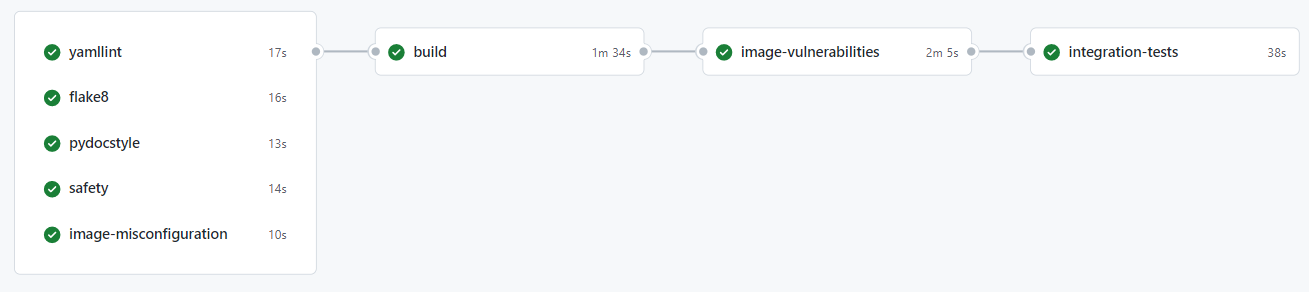
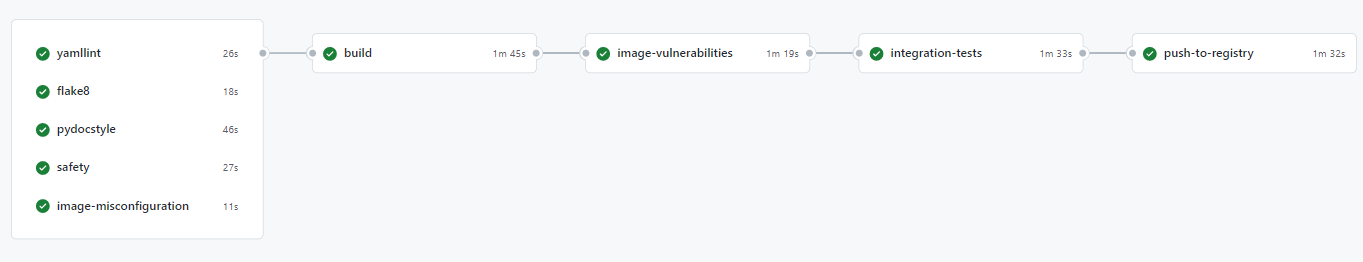
Update README.md (#6)
* Updated doc

* Updated doc

* Added architecture diagram

* Adjusted image size

* Added build badge

* updated badge

* rm empty lines

diff --git a/README.md b/README.md
@@ -1,8 +1,10 @@
-This repo is a template for dockerized flask applications(REST API). You will find the following implementation:
+# financial-data-api &middot; ![ci](https://github.com/teddy-ambona/financial-data-api/actions/workflows/ci.yml/badge.svg)
+
+This repo is a template for dockerized flask applications(REST API). This simplified API exposes GET endpoints that allow you to pull stock prices and trading indicators. You will find the following implementation:
 
 - Github Actions CICD
 - Docker PostgreSQL DB setup for local testing
-- Docker image build pattern
+- Docker image build and distribution pattern
 - Services configuration with Docker Compose
 - Makefile template
 - Flask blueprints
@@ -10,8 +12,9 @@ This repo is a template for dockerized flask applications(REST API). You will fi
 - Flask-SQLAlchemy implementation
 - Dependency injection
 
+<img src="./docs/img/architecture.png" width="700"/>
 
-# Prerequisites
+## Prerequisites
 
 - [Docker](https://docs.docker.com/get-docker/)
 - [Docker Compose CLI plugin](https://docs.docker.com/compose/install/compose-plugin/)
@@ -19,23 +22,23 @@ This repo is a template for dockerized flask applications(REST API). You will fi
 
 > The API doesn't require python installed on your machine.
 
-# Quickstart
+## Quickstart
 
 Run the following commands to build the Docker image and run the app and db services:
 
-```
+```bash
 make build up
 ```
 
 Verify the API is running:
 
-```
+```bash
 curl -I http://127.0.0.1:5000/_healthcheck
 ```
 
-# Project file structure
+## Project file structure
 
-```
+```text
 ├── .github
 │   ├── workflow
 │   │   └── cicd.yaml
@@ -77,7 +80,7 @@ curl -I http://127.0.0.1:5000/_healthcheck
 ├── requirements.txt
 ```
 
-# CICD overview
+## CICD overview
 
 <img src="./docs/img/CICD.png" width="700"/>
 <br></br>
@@ -87,23 +90,57 @@ curl -I http://127.0.0.1:5000/_healthcheck
 - **pydocstyle:** Checks compliance with Python docstring conventions
 - **safety:** python packages vulnerabilities scanner
 - **image-misconfiguration:** Detect configuration issues in Dockerfile(Trivy)
-- **build:** Build Docker image
+- **build:** Build Docker image and push it to the pipeline artifacts
 - **image-vulnerabilities:** Image vulnerablities scanner(Trivy)
 - **integration-tests:** Series of tests which call the API
+- **push-to-registry:** Push the Docker image to Docker Hub
 
-# Running the CICD pipeline locally
+## Running the CICD pipeline locally
 
 Install [act](https://github.com/nektos/act) to run the jobs on your local machine.
 
 Example:
+
+```bash
+act --secret-file secrets.txt --artifact-server-path /tmp/artifacts  # Run the full CICD pipeline
+act -j pydocstyle --secret-file secrets.txt --artifact-server-path /tmp/artifacts # Run specific job
 ```
-act  # Run the full CICD pipeline
-act -j pydocstyle  # Run specific job
+
+In `secrets.txt`:
+
+```bash
+GITHUB_TOKEN=<YOUR_PAT_TOKEN>
+DOCKERHUB_USERNAME=<YOUR_DOCKERHUB_USERNAME>
+DOCKERHUB_TOKEN=<YOUR_DOCKERHUB_TOKEN>
 ```
-Optionally you could also use the Makefile directly
+
+`--artifact-server-path` has to be specified as the workflow is using `actions/upload-artifact` and `actions/download-artifact`([cf issue](https://github.com/nektos/act/issues/329#issuecomment-1187246629))
+
+Optionally you could also run pipeline jobs using the Makefile directly
 
 Example:
-```
+
+```bash
 make pydocstyle
 make setup-db integration-tests
 ```
+
+## Docker image build pattern
+
+The requirements are:
+
+- A dev image should be pushed to [Docker Hub](https://hub.docker.com/r/tambona29/financial-data-api/tags) everytime a `git push` is made. That allows end-to-end testing in dev environment. I chose Docker Hub over AWS as Docker Hub is still the best choice for distributing software publicly.
+
+- Leverage pipeline artifacts to avoid rebuilding the image from scratch across jobs. Also pass image tag variables between jobs/steps using the output functionality to keep the code DRY.
+
+- The image tag should follow [SemVer specifications](https://semver.org/) which is `MAJOR.MINOR.PATCH-<BRANCH NAME>.dev.<COMMIT SHA>` for dev versions and `MAJOR.MINOR.PATCH` for production use.
+
+### SemVer2
+
+|   Branch  | Commit # | Image Version | Image Tag  |
+|:---------:|:--------:|:-------------:|:----------:|
+| feature-1 |     1    |      1.0.0    | 1.0.0-feature-1.dev.b1d7ba7fa0c6a14041caaaf4025f6cebb924cb0f |
+| feature-1 |     2    |      1.0.0    |   1.0.0-feature-1.dev.256e60e615e89332c5f602939463500c1be5d90a |
+|   main    |     5     |      1.0.0    |    1.0.0 |
+
+> The [docker/metadata-action@v4](https://github.com/docker/metadata-action#semver) task can automate this but it requires using git tags which can be a bit cumbersome as it requires an update for each commit. So I preferred reimplementing something straightforward that uses the git branch name and commit SHA to form the image tag.
